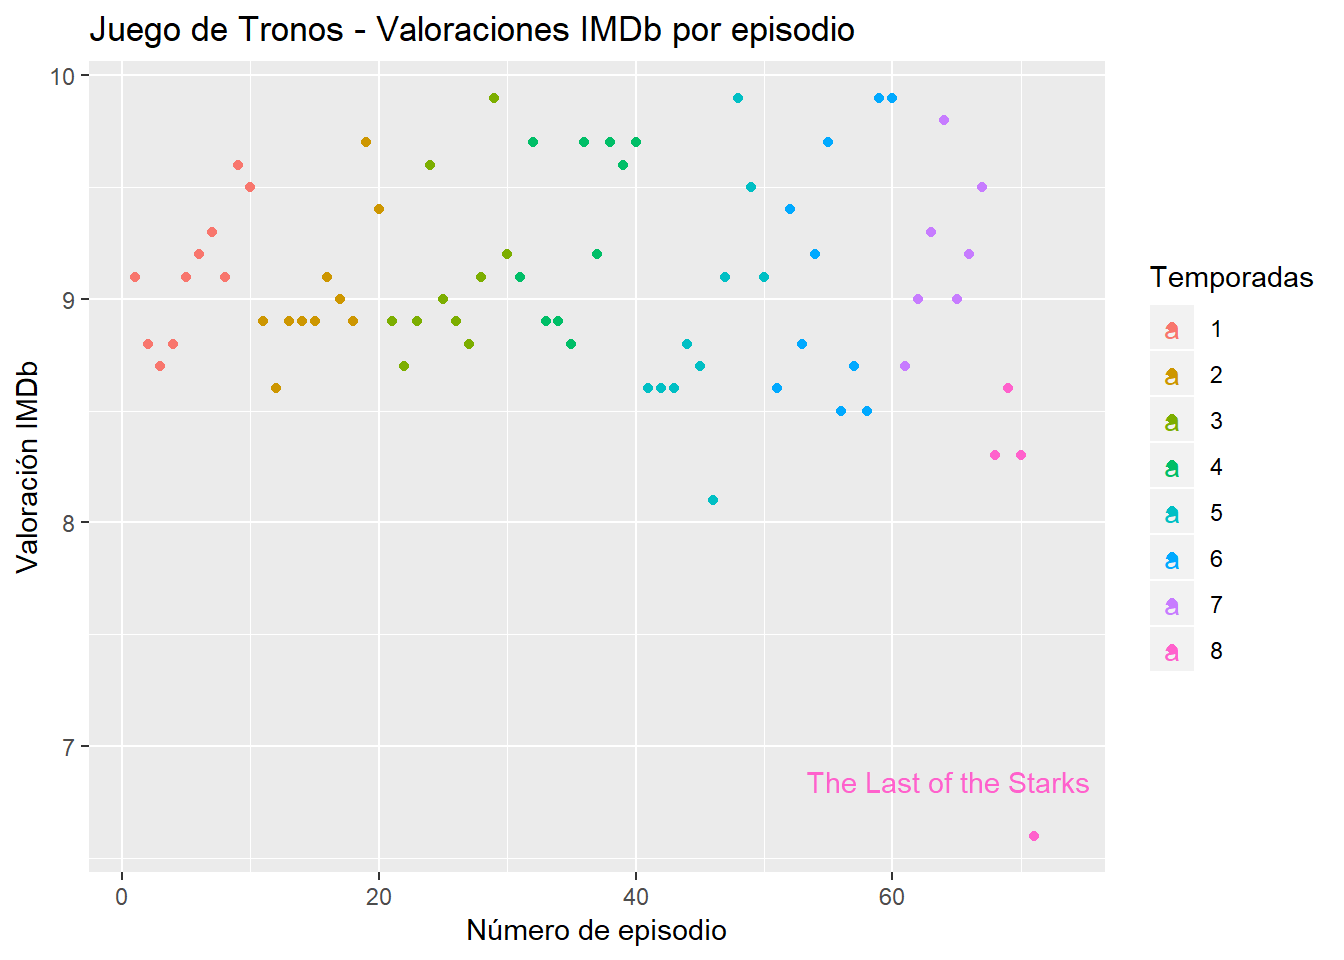
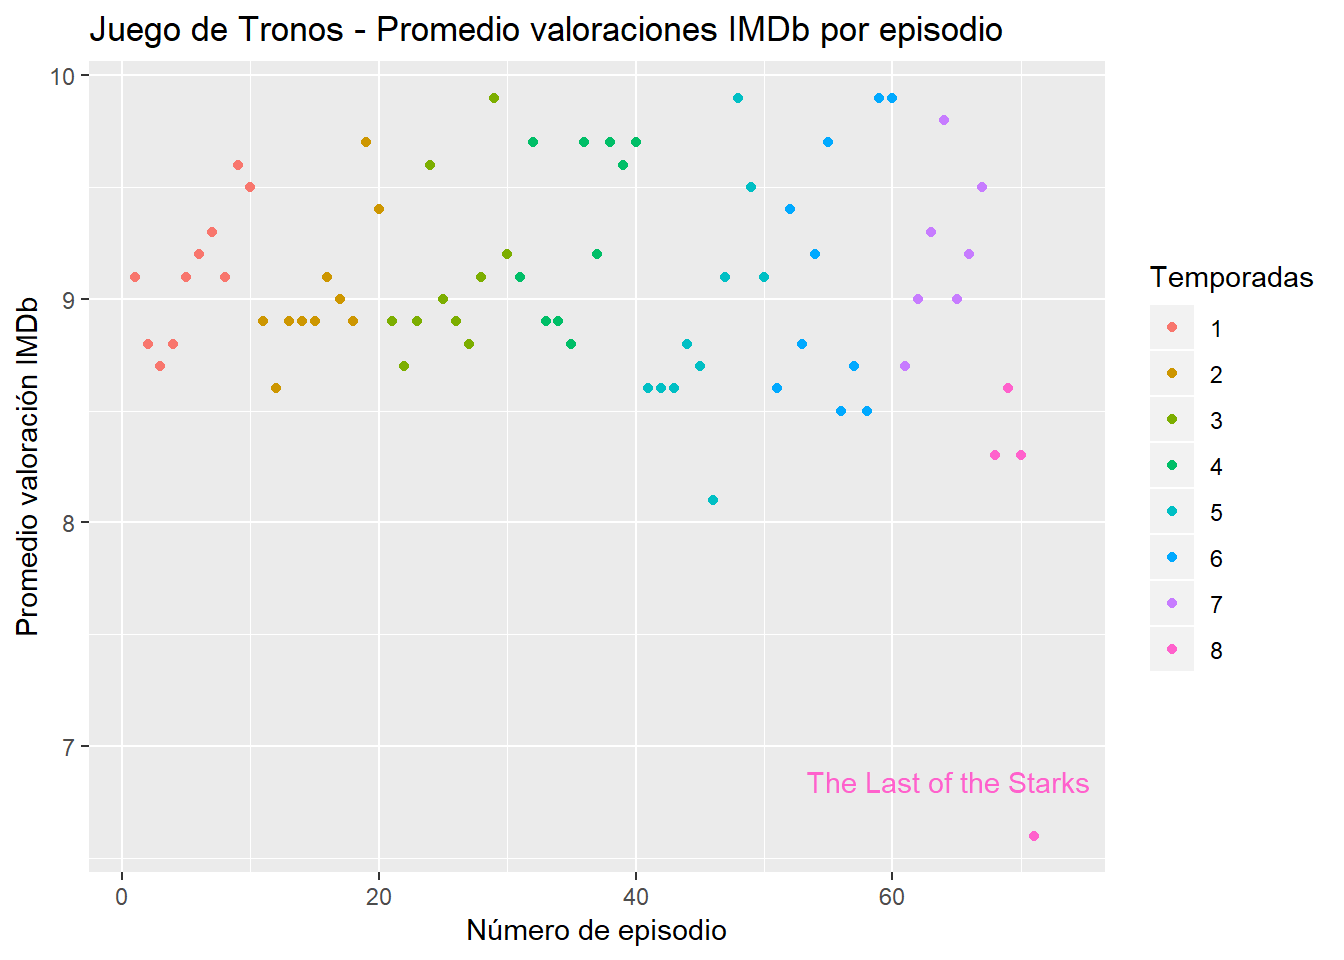
Ending imdb analysis

Changed region(s): [[0.2812, 0.0, 0.75, 0.0625], [0.0, 0.3125, 0.0312, 0.6562]]

diff --git a/_book/valoraciones-imdb-com.html b/_book/valoraciones-imdb-com.html
@@ -146,9 +146,9 @@ code span.wa { color: #60a0b0; font-weight: bold; font-style: italic; } /* Warni
             <section class="normal" id="section-">
 <div id="valoraciones-imdb.com" class="section level1">
 <h1><span class="header-section-number">1</span> Valoraciones imdb.com</h1>
-<p>En esta parte vamos a echar un vistazo a las valoraciones de los capítulos de Juego de Tronos de los usuarios de imdb.com.</p>
-<p>Las valoraciones de los tres primeros capítulos de la temporada 8 (8,3, 8,6 y 8,3) ya estaban por debajo del promedio histórico de la serie, pero es que la valoración del cuarto episodio ahora mismo es de 6,6 (con más de 60.000 valoraciones), un auténtico batacazo para este serie y para HBO.</p>
-<p>Inicialmente lo que vamos a hacer es simplemente visualizar en distintos gráficos lo lejos que está la puntuación de este capítulo del resto de episodios de Juego de Tronos.</p>
+<p>En esta parte vamos a echar un vistazo a las valoraciones de los capítulos de Juego de Tronos de los usuarios de imdb.com, centrándonos principalmente en el último capítulo emitido 8x04 “The last of the Starks”, que ha batido con muchísimo las peores valoraciones hasta ahora recibidas por un episodio de Juego de Tronos.</p>
+<p>Las valoraciones de los tres primeros capítulos de la temporada 8 (8,3, 8,6 y 8,3) ya estaban por debajo del promedio histórico de la serie, pero es que la valoración del cuarto episodio ahora mismo es de 6,6 (con más de 60.000 valoraciones), un auténtico batacazo para esta serie y para HBO. La peor nota hasta ahora la poseía el episodio 5x06 “Unbowed, Unbent, Unbroken”, con un 8,1 de promedio. Nada menos que 1,5 puntos de diferencia.</p>
+<p>Así que lo que vamos a hacer es simplemente visualizar en distintos gráficos lo lejos que está la puntuación de este capítulo del resto de episodios de Juego de Tronos.</p>
 <p>Cargamos primero los paquetes necesarios para el análisis. Opto esta vez por cargar directamente la librería tidyverse y su universo de paquetes. Y añado la librería “gridExtra”.</p>
 <pre class="sourceCode r"><code class="sourceCode r"><span class="kw">library</span>(tidyverse)
 <span class="kw">library</span>(gridExtra)</code></pre>
@@ -170,15 +170,15 @@ code span.wa { color: #60a0b0; font-weight: bold; font-style: italic; } /* Warni
 <span class="st">                    </span><span class="kw">geom_histogram</span>(<span class="dt">binwidth =</span> <span class="fl">0.25</span>) <span class="op">+</span><span class="st"> </span>
 <span class="st">                          </span><span class="kw">stat_bin</span>(<span class="dt">binwidth=</span> <span class="fl">0.25</span>, <span class="dt">geom=</span><span class="st">&quot;text&quot;</span>, <span class="kw">aes</span>(<span class="dt">label=</span>..count..), <span class="dt">vjust =</span> <span class="fl">-0.5</span>)</code></pre>
 <p><img src="_main_files/figure-html/unnamed-chunk-5-1.png" width="\textwidth" />
-El “hueco” entre la valoración más baja que existía hasta ahora y la del episodio 8x04 “The Last of the Starks” es tremendo, 1,4 puntos.</p>
+El “hueco” entre la valoración más baja que existía hasta ahora y la del episodio 8x04 “The Last of the Starks” es tremendo, 1,5 puntos.</p>
 <p>Lo vemos también con todas las valoraciones representadas en un nube de puntos.</p>
 <pre class="sourceCode r"><code class="sourceCode r"><span class="kw">ggplot</span>(got_ratings, <span class="kw">aes</span>(<span class="dt">x =</span> <span class="st">`</span><span class="dt">Episode Number</span><span class="st">`</span>, <span class="dt">y =</span> <span class="st">`</span><span class="dt">Imdb Rating</span><span class="st">`</span>, <span class="dt">color =</span> <span class="kw">as.factor</span>(Season))) <span class="op">+</span>
 <span class="st">                    </span><span class="kw">geom_point</span>() <span class="op">+</span>
 <span class="st">                    </span><span class="kw">labs</span>(<span class="dt">colour =</span> <span class="st">&quot;Temporadas&quot;</span>,
                          <span class="dt">x =</span> <span class="st">&quot;Número de episodio&quot;</span>, 
-                         <span class="dt">y =</span> <span class="st">&quot;Valoración IMDb&quot;</span>, 
-                         <span class="dt">title =</span> <span class="st">&quot;Juego de Tronos - Valoraciones IMDb por episodio&quot;</span>) <span class="op">+</span>
-<span class="st">                   </span><span class="kw">geom_text</span>(<span class="kw">aes</span>(<span class="dt">label=</span><span class="kw">ifelse</span>(<span class="st">`</span><span class="dt">Imdb Rating</span><span class="st">`</span> <span class="op">&lt;</span><span class="st"> </span><span class="dv">7</span>,<span class="st">`</span><span class="dt">Episode Name</span><span class="st">`</span>,<span class="st">&#39;&#39;</span>)),<span class="dt">hjust=</span> <span class="fl">0.8</span>,<span class="dt">vjust=</span> <span class="dv">-2</span>)</code></pre>
+                         <span class="dt">y =</span> <span class="st">&quot;Promedio valoración IMDb&quot;</span>, 
+                         <span class="dt">title =</span> <span class="st">&quot;Juego de Tronos - Promedio valoraciones IMDb por episodio&quot;</span>) <span class="op">+</span>
+<span class="st">                   </span><span class="kw">geom_text</span>(<span class="kw">aes</span>(<span class="dt">label=</span><span class="kw">ifelse</span>(<span class="st">`</span><span class="dt">Imdb Rating</span><span class="st">`</span> <span class="op">&lt;</span><span class="st"> </span><span class="dv">7</span>,<span class="st">`</span><span class="dt">Episode Name</span><span class="st">`</span>,<span class="st">&#39;&#39;</span>)),<span class="dt">hjust=</span> <span class="fl">0.8</span>,<span class="dt">vjust=</span> <span class="dv">-2</span>, <span class="dt">show_guide =</span> F)</code></pre>
 <p><img src="_main_files/figure-html/unnamed-chunk-6-1.png" width="\textwidth" /></p>
 <p>No hay precedente, ni punto cercano, a la la valoración de este episodio. Lo que está por determinar es si los dos últimos capítulos seguirán en esta línea o recuperarán, por lo menos en parte, el favor del público. Pero es que 3 de los 4 capítulos peor valorados de toda la serie pertenecen a esta temporada. No pinta bien la cosa.</p>
 <p>Otro detalle de la evolución de las valoraciones que se observa también a simple vista en este último gráfico es la creciente variabilidad en las valoraciones. En las últimas temporadas, excepto en ésta, sigue habiendo capítulos muy bien valorados , incluso mejor valorados que cualquier episodio de las primeras temporadas, pero también aparecen cada vez más capítulos en el entorno del 8,5, a partir del cual ya podríamos decir que es un episodio “flojito” de esta serie.</p>
@@ -209,7 +209,10 @@ graph_<span class="dv">2</span> &lt;-<span class="st"> </span><span class="kw">g
              graph_<span class="dv">2</span>, 
              <span class="dt">ncol =</span> <span class="dv">1</span>) </code></pre>
 <p><img src="_main_files/figure-html/unnamed-chunk-7-1.png" width="\textwidth" /></p>
-<p>En el segundo histograma es bastante clara la mayor dispersión de los promedios, así como el descenso de las notas más frecuentes, que en el primero se encuentran muy cerca de los nueves mientras en el segundo se produce un claro desplazamiento hacia la izquierda.</p>
+<p>En el segundo histograma es bastante clara la mayor dispersión de los promedios, así como el descenso de las notas más frecuentes, que en el primero se encuentran muy cerca de los nueves mientras en el segundo se produce un claro desplazamiento hacia la izquierda. ¿Está afectando a la calidad de la serie la falta de material original sobre la que apoyar sus guiones? La serie ya ha sobrepasado hace tiempo a la historia que narran los libros de George R. R. Martin. Podría ser, lo que está claro es que esta temporada final no está enamorando al público y que su último capítulo ha sido un auténtico desastre en cuanto a valoraciones de sus fans.</p>
+<p>Querría ser más optimista. Me encanta esta serie y , aunque me gustaba más el espíritu inicial con la que nació y creció, sigo disfrutando muchísimo con ella, pero creo que esta temporada final ya es difícil de levantar.</p>
+<p>Todo el código y los datos empleados se encuentran en este repositorio de Github <a href="https://github.com/sergioberdiales/game_of_thrones" class="uri">https://github.com/sergioberdiales/game_of_thrones</a>.</p>
+<p>Cualquier consulta, queja o sugerencia me la puedes enviar vía twitter <a href="https://twitter.com/SergioBerdiales">twitter.com/SergioBerdiales</a></p>
 
 </div>
             </section>

diff --git a/_book/index.html b/_book/index.html
@@ -150,7 +150,9 @@ code span.wa { color: #60a0b0; font-weight: bold; font-style: italic; } /* Warni
 </div>
 <div id="introduccion" class="section level1 unnumbered">
 <h1>Introducción</h1>
-<p>El objetivo de este libro de bookdown es simplemente jugar un poco con los datos de la serie de televisión Juego de Tronos (HBO).</p>
+<p>El objetivo de este libro de bookdown es simplemente jugar un poco con los datos de la serie de televisión Juego de Tronos (HBO).
+Todo el código y los datos empleados se encuentran en este repositorio de Github <a href="https://github.com/sergioberdiales/game_of_thrones" class="uri">https://github.com/sergioberdiales/game_of_thrones</a>.</p>
+<p>Cualquier consulta, queja o sugerencia me la puedes enviar vía twitter <a href="https://twitter.com/SergioBerdiales">twitter.com/SergioBerdiales</a></p>
 
 </div>
             </section>
